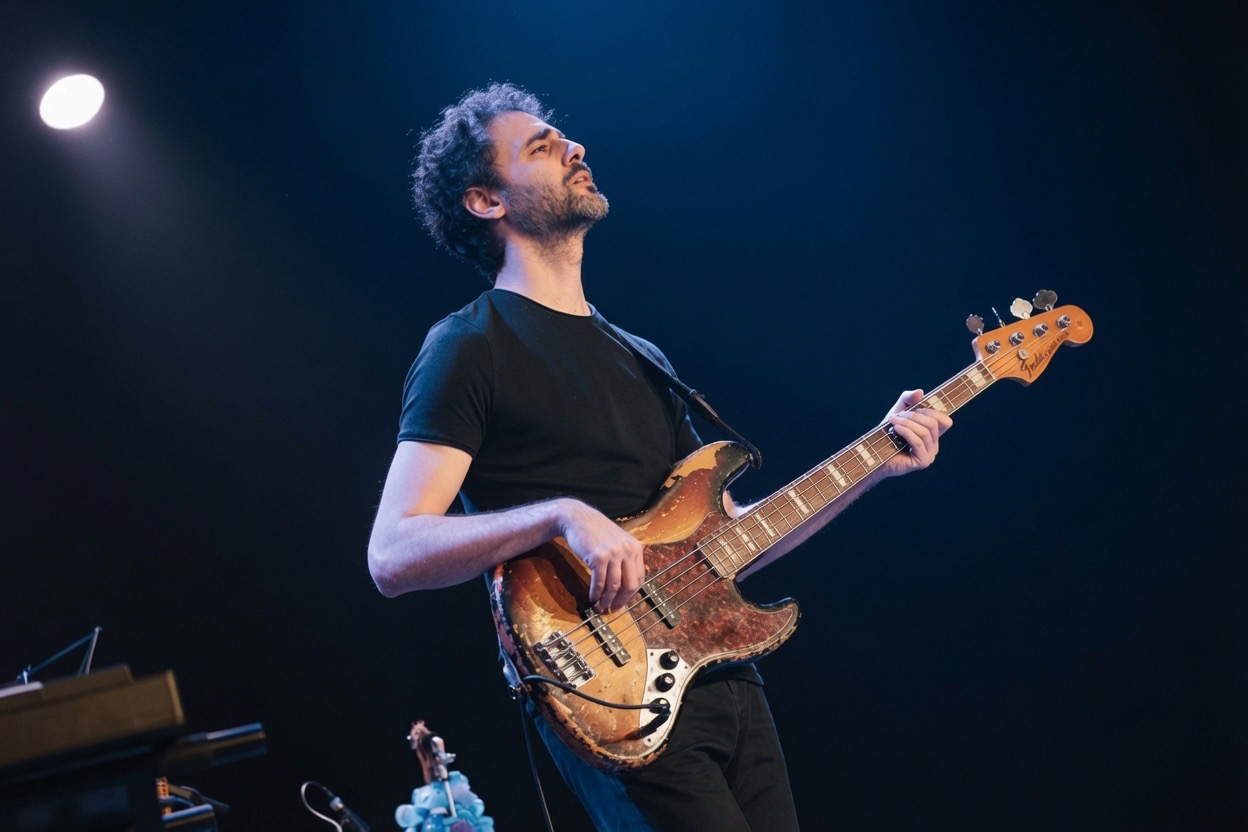
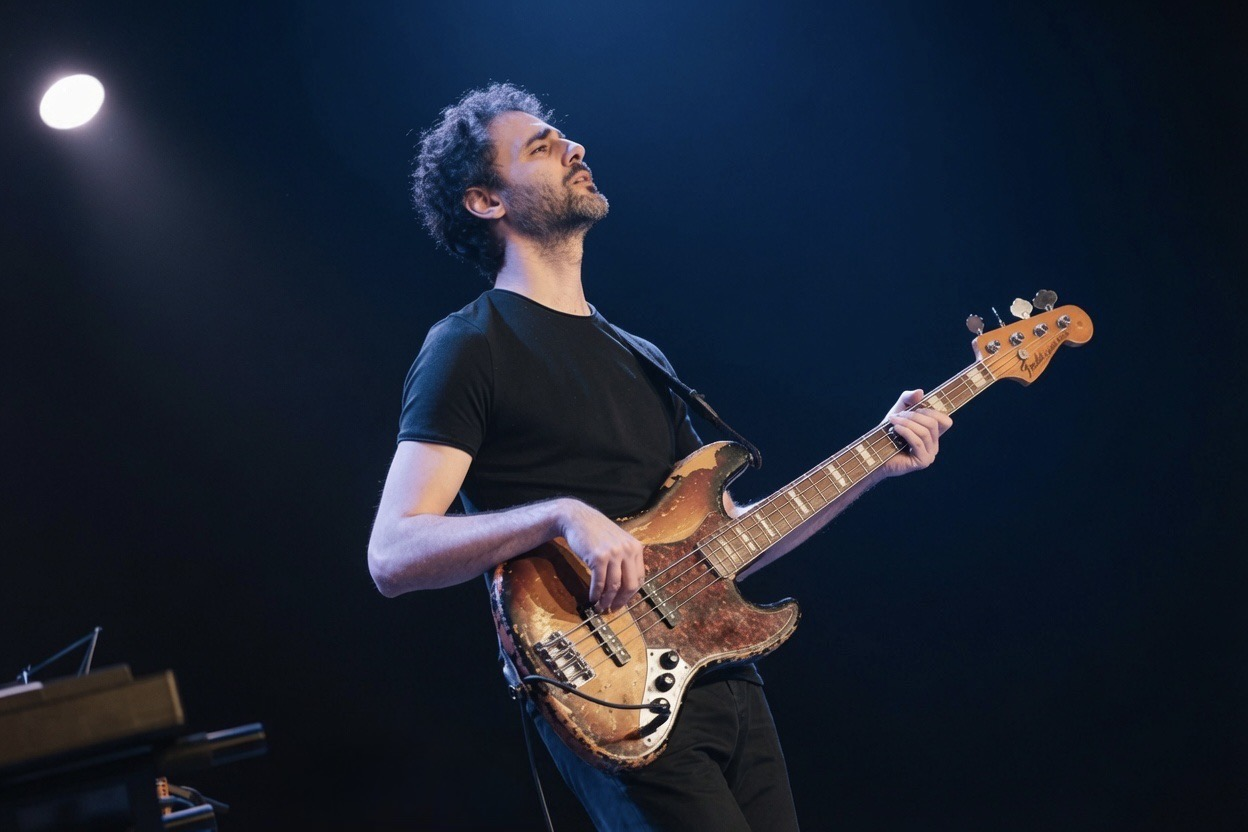
Actualiza foto de la Bio
Claude-Session: https://claude.ai/code/session_014iVqKnTa1n4fW1JHcVauYP

Changed region(s): [[0.2188, 0.875, 0.4062, 1.0]]

diff --git a/index.html b/index.html
@@ -190,7 +190,7 @@ footer .wrap{display:flex;justify-content:space-between;gap:1rem;flex-wrap:wrap;
   <div class="wrap">
     <div class="sh"><h2>Bio</h2><span class="label" data-i18n="about">Sobre mí</span></div>
     <div class="bio">
-      <img class="portrait" src="img/bio.jpg" alt="Martín Laportilla tocando un Fender Jazz Bass en concierto" width="1248" height="832" loading="lazy">
+      <img class="portrait" src="img/bio-v2.jpg" alt="Martín Laportilla tocando un Fender Jazz Bass en concierto" width="1248" height="832" loading="lazy">
       <div>
         <p class="lead" data-i18n="bio0">Bajista argentino afincado en Barcelona desde 1999. Su lenguaje une jazz, soul, pop, música brasileña y ritmos latinos, con un sonido marcado por la riqueza rítmica, la precisión y la sensibilidad.</p>
         <p data-i18n="bio1">Ha tocado con artistas como Saulo Fernandes, Margareth Menezes, Paula Lima, Jair Oliveira, Gabriel Grossi, Aca Seca Trío y Nella Rojas, y ha grabado junto a Paquito D'Rivera, Bobby Shew, Luis Salinas y Perico Sambeat, entre otros.</p>
